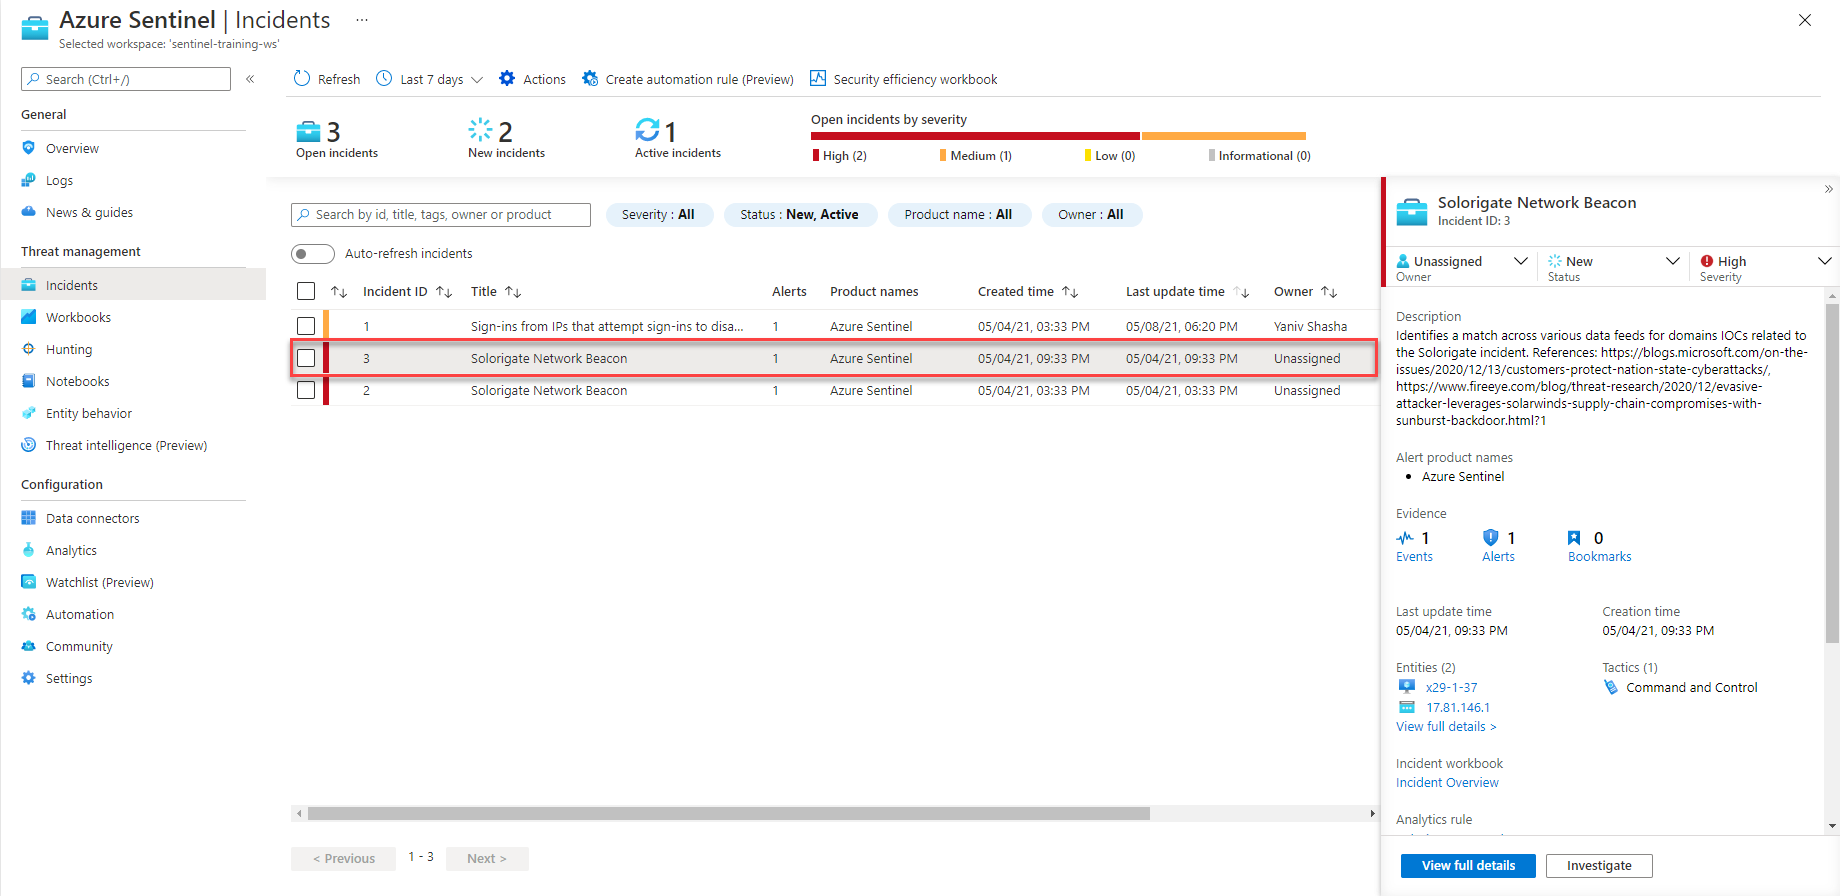
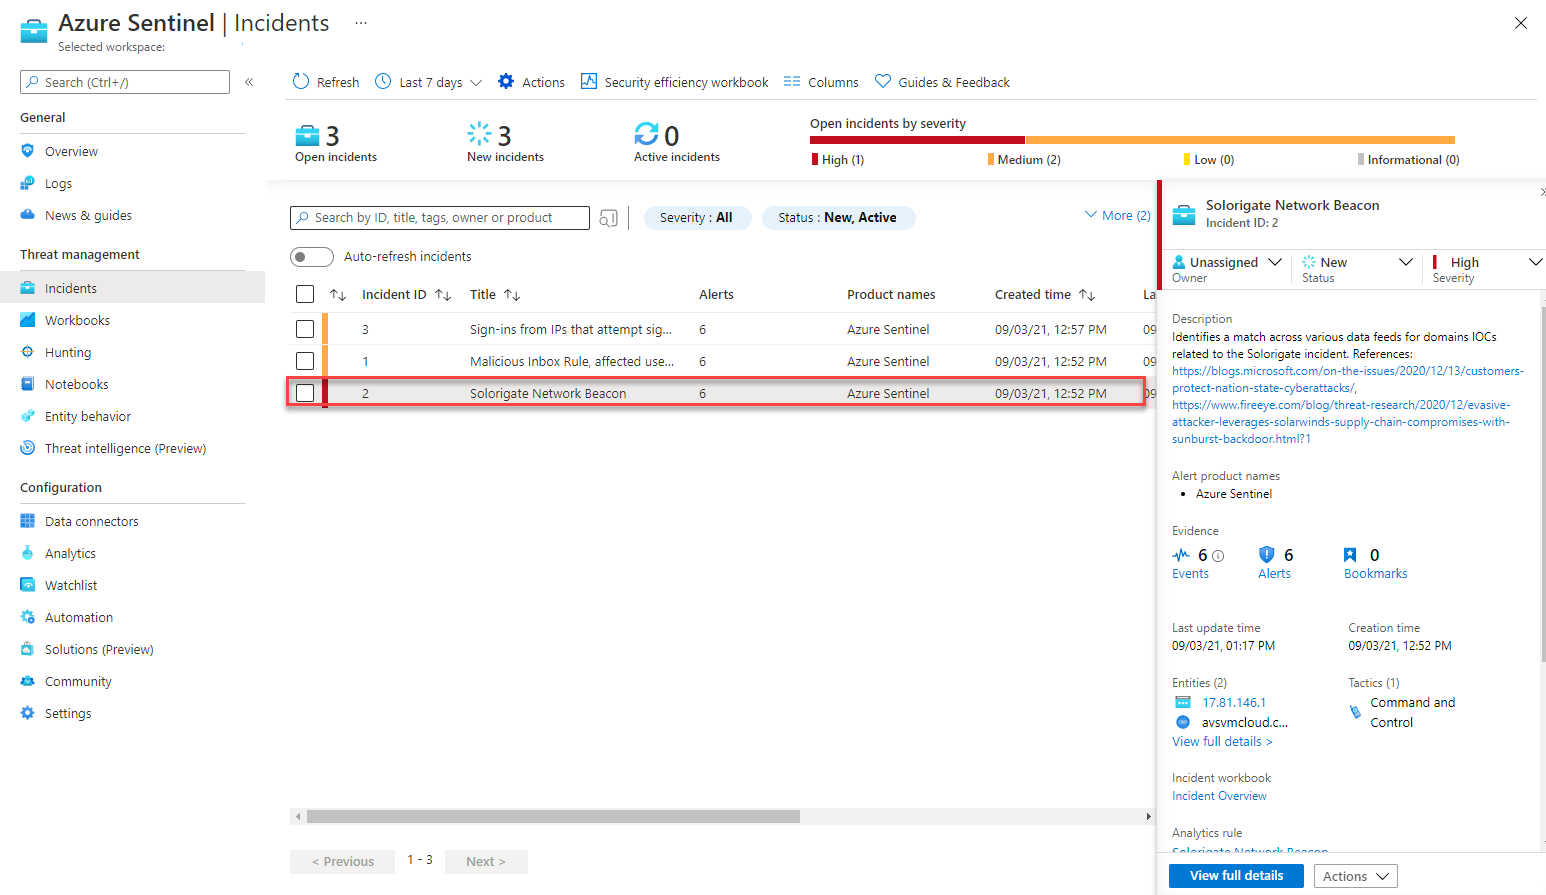
fixing some typos in the Training lab guide

diff --git a/Solutions/Training/Azure-Sentinel-Training-Lab/Modules/Module-4-Incident-Management.md b/Solutions/Training/Azure-Sentinel-Training-Lab/Modules/Module-4-Incident-Management.md
@@ -11,21 +11,21 @@ This module assumes that you have completed [Module 1](Module-1-Setting-up-the-e
 
 ### Exercise 1: Review Azure Sentinel incident tools and capabilities
 
-As a SOC analyst the entry point to consume Security incidents(tickets) in Sentinel is the Incident page.
+As a SOC analyst, the entry point to consume Security incidents (tickets) in Sentinel is the Incident page.
 
-1. In the left navigation menu press on the incident and open the incident page. This page will show by default all the open incident in the last 24hr.
+1. In the left navigation menu click on *Incidents* to open the incidents page. This page will show by default all the open incidents in the last 24hr.
 
 2. When we want to change the time window, present only incident from specific severity or to see also closed incident, we can use the filters bar:
 
 ![Select Microsoft incident creation rule](../Images/m5-incident-filter.gif?raw=true)
 
-3. On the incident page select the "Model Evasion in Critical ML model" incident. In the right pane you can see the incident preview with the high level information about the incident. 
+3. On the incident page select the *Sign-ins from IPs that attempt sign-ins to disabled accounts* incident. In the right pane you can see the incident preview with the high level information about the incident. 
 
-4. As you are the SME SOC analyst that deal and investigate fraud tickets, you need to take ownership on this incident. On the right page change the unassigned to "Assign to me" and also change the status from New to active.
+4. As you are the SME SOC analyst that deal and investigate tickets, you need to take ownership on this incident. On the right pane, change the unassigned to *Assign to me* and also change the status from *New* to *Active*.
  
 ![Select Microsoft incident creation rule](../Images/m5-assigen_ticket.gif?raw=true)
 
-5. Another way to consume incidents and also get high level view on the general SOC health is through the Security Operations Efficiency Workbook(we will have separated module on workbook)
+5. Another way to consume incidents and also get high level view on the general SOC health is through the *Security efficiency workbook*.
 
 We have 2 options to open the workbook:
 
@@ -42,10 +42,15 @@ We have 2 options to open the workbook:
 ### Exercise 2: Handling Incident **"Sign-ins from IPs that attempt sign-ins to disabled accounts"**
 
 1. Open Azure Sentiel incident page.
+
 2. Locate the incident **"Sign-ins from IPs that attempt sign-ins to disabled accounts"**
+
 3. Press on the incident and look on the right pane for the incident preview, please notice that in this pane we are surfacing the incident entities that belong to this incident.
+
 4. Take ownership on the incident and change its status to **Active**
+
 5. Navigate to incident full details by pressing **View full details** and execute playbook to bring Geo IP data (user will notice tags being added).
+
 6. Navigate to the **Alerts** tab and press the number of **Events**. This action will redirect you to Raw logs that will present the alert evidence to support the investigation 
 
 ![Select Microsoft incident creation rule](../Images/m5-select_events.gif?raw=true)

diff --git a/Solutions/Training/Azure-Sentinel-Training-Lab/Modules/Module-7-Threat-Intelligence.md b/Solutions/Training/Azure-Sentinel-Training-Lab/Modules/Module-7-Threat-Intelligence.md
@@ -149,7 +149,7 @@ One of the main values of the TI data is on Analytics rules. In this exercise we
 
 ![TImapping](../Images/TI4.png)
 
-3. As you can see, there is a long list of resulting alert templates. These all will correlate your different data sources with the IOCs present in your TI table (ThreatIntelligenceIndicator), to detect any trace of malicious indicators of comprise in your organization's logs. You can see more information about these rules [here](https://docs.microsoft.com/azure/sentinel/work-with-threat-indicators#detect-threats-with-threat-indicator-based-analytics).
+3. As you can see, there is a long list of resulting alert templates. These all will correlate your different data sources with the IOCs present in your TI table (ThreatIntelligenceIndicator), to detect any trace of malicious indicators of compromise in your organization's logs. You can see more information about these rules [here](https://docs.microsoft.com/azure/sentinel/work-with-threat-indicators#detect-threats-with-threat-indicator-based-analytics).
 
 4. As you may know, it is free to enable analytics rules in Azure Sentinel, so the best practice is to enable all the ones that apply to data sources that you are ingesting.
 
@@ -176,17 +176,17 @@ Workbooks provide powerful interactive dashboards that give you insights into al
 
 3. Select the **Save** button and choose an Azure location to store the workbook. This step is required if you are going to modify the workbook in any way and save your changes.
 
-![TImatching](../Images/TI4.png)
+![TImatching](../Images/TI5.png)
 
 4. Now select the **View saved workbook** button to open the workbook for viewing and editing. 
 
 5. You will find some pre-built visualizations that show you the indicators imported into Sentinel over time, by type and provider. To modify or add a new chart, select the **Edit** button at the top of the page to enter editing mode for the workbook.
 
-![TIworkbook](../Images/TI5.png)
+![TIworkbook](../Images/TI6.png)
 
 6. Let's now add a new chart of threat indicators by threat type. To do this, scroll to the very bottom of the page and select **Add Query**.
 
-![TIworkbook](../Images/TI6.png)
+![TIworkbook](../Images/TI7.png)
 
 7. Add the following text to the Log Analytics workspace Log Query text box:
 
@@ -197,7 +197,7 @@ ThreatIntelligenceIndicator
 
 8. In the Visualization drop-down, select **Bar chart**.
 
-![TIworkbook](../Images/TI7.png)
+![TIworkbook](../Images/TI8.png)
 
 9. Select the Done editing button. You’ve created a new chart for your workbook 😀.
 

diff --git a/Solutions/Training/Azure-Sentinel-Training-Lab/Modules/Module-5-Hunting.md b/Solutions/Training/Azure-Sentinel-Training-Lab/Modules/Module-5-Hunting.md
@@ -20,11 +20,19 @@ This module assumes that you have completed [Module 1](Module-1-Setting-up-the-e
 
 ![incident2](../Images/incident2.png)
 
-4. Read the description of the incident. As you can see, an IOC related to Solorigate attack has been found. In this case, host **ClientPC** is involved.
+4. Read the description of the incident. As you can see, one of the domain IOCs related to Solorigate attack has been found. In this case, domain **avsvmcloud.com** is involved. 
+
+5. Optionally, you can click on *View full details* to drill down to inspect the raw events that triggered this alert. For that, click on *Link to LA* as shown in the screenshot:
+
+![incident2](../Images/incident-details.png)
+
+6. As you can see, the events were originated in Cisco Umbrella DNS, and the analytic rule uses *Azure Sentinel Information Model* (ASIM) to normalize these events from any DNS source. Read more about [ASIM](https://docs.microsoft.com/en-us/azure/sentinel/normalization) and the [DNS schema](https://docs.microsoft.com/en-us/azure/sentinel/dns-normalization-schema).
+
+![incident2](../Images/raw-events.png)
 
 ### Exercise 2: Hunting for more evidence
 
-1. As a next step, you would like to identify any other hosts that might have been compromised as well. As part of your research, you find the following [guidance from Microsoft](https://techcommunity.microsoft.com/t5/azure-sentinel/solarwinds-post-compromise-hunting-with-azure-sentinel/ba-p/1995095). In this article, you can find a query that will do a SolarWinds inventory check query. We will use this query to find any other affected hosts.
+1. As a next step, you would like to identify the hosts that might have been compromised. As part of your research, you find the following [guidance from Microsoft](https://techcommunity.microsoft.com/t5/azure-sentinel/solarwinds-post-compromise-hunting-with-azure-sentinel/ba-p/1995095). In this article, you can find a query that will do a SolarWinds inventory check query. We will use this query to find any other affected hosts.
 
 2. Switch to *Hunting* in the Azure Sentinel menu.
 
@@ -69,7 +77,7 @@ Now, we will add the IP address related to the incident to our list of IOCs, so 
 
 ![incident11](../Images/incident11.png)
 
-4. Enter the following details in the *New indicator* dialog. Then click *Apply*.
+4. Enter the following details in the *New indicator* dialog, with *Valid from* being today's date and *Valid until* being two months after. Then click *Apply*.
 
 ![incident12](../Images/incident12.png)
 

diff --git a/Solutions/Training/Azure-Sentinel-Training-Lab/Modules/Module-2-Data-Connectors.md b/Solutions/Training/Azure-Sentinel-Training-Lab/Modules/Module-2-Data-Connectors.md
@@ -17,7 +17,7 @@ Some of the data connectors that will be used in this lab, require some specific
 
 This exercise shows you how to enable the Azure Activity data connector. This connector will bring into your Azure Sentinel workspace all the audit events for actions performed in your Azure subscription.
 
-**NOTE**: To do this exercise, your user must have Reader permissions to any subscription whose logs you want to stream into Azure Sentinel. 
+**NOTE**: To do this exercise, your user must have Reader permissions to any subscription which logs you want to stream into Azure Sentinel. 
 
 1. Go to you Azure Sentinel workspace and select **Data Connectors** under **Configuration** section.
 
@@ -73,7 +73,7 @@ This exercise shows you how to enable the Azure Defender data connector. This co
 
 ### Exercise 3: Enable Threat Intelligence TAXII data connector
 
-This exercise shows you how to enable the Threat Intelligence - TAXII data connector. This connector allows you to send send threat indicators from TAXII servers to Azure Sentinel. Threat indicators can include IP addresses, domains, URLs, and file hashes.
+This exercise shows you how to enable the Threat Intelligence - TAXII data connector. This connector allows you to send threat indicators from TAXII servers to Azure Sentinel. Threat indicators can include IP addresses, domains, URLs, and file hashes.
 
 **NOTE**: To do this exercise, your user must have the Security Reader role in the subscription of the logs you stream. If not done already, you will need to enable Azure Defender within Azure Security Center.
 

diff --git a/Solutions/Training/Azure-Sentinel-Training-Lab/Modules/Module-3-Analytics-Rules.md b/Solutions/Training/Azure-Sentinel-Training-Lab/Modules/Module-3-Analytics-Rules.md
@@ -89,7 +89,7 @@ In this exercise you will use Azure sentinel analytics rule wizard to create new
 	OfficeActivity_CL
 	| distinct Operation_s
     ```
-- As you can see the **New-Mailbox** operation is indeed captures in your index.
+- As you can see the **New-InboxRule** operation is indeed captured in your logs.
 
 ![fustion alert story](../Images/m3-distinct_Events.gif?raw=true)
 
